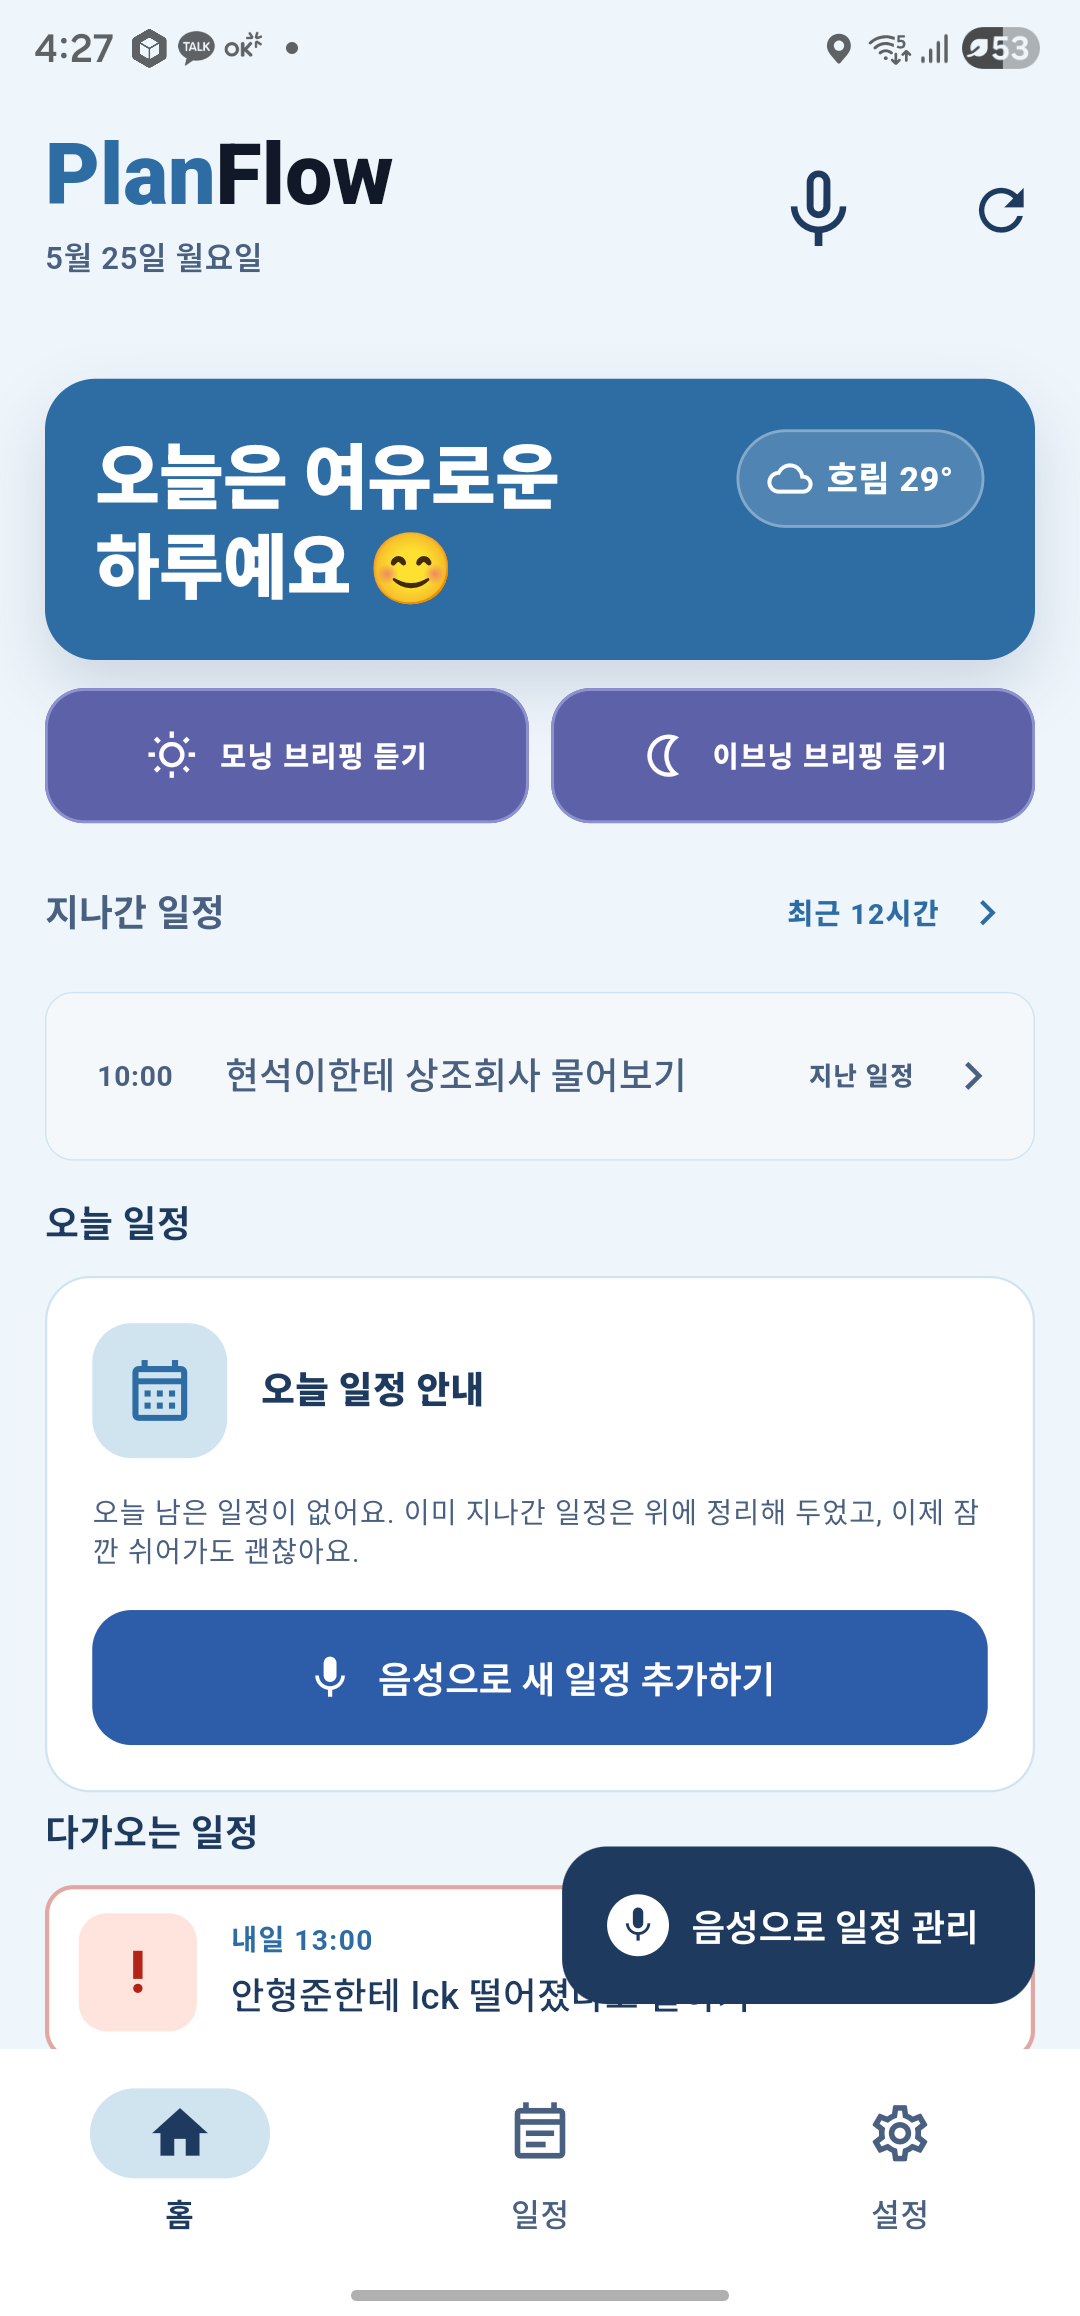
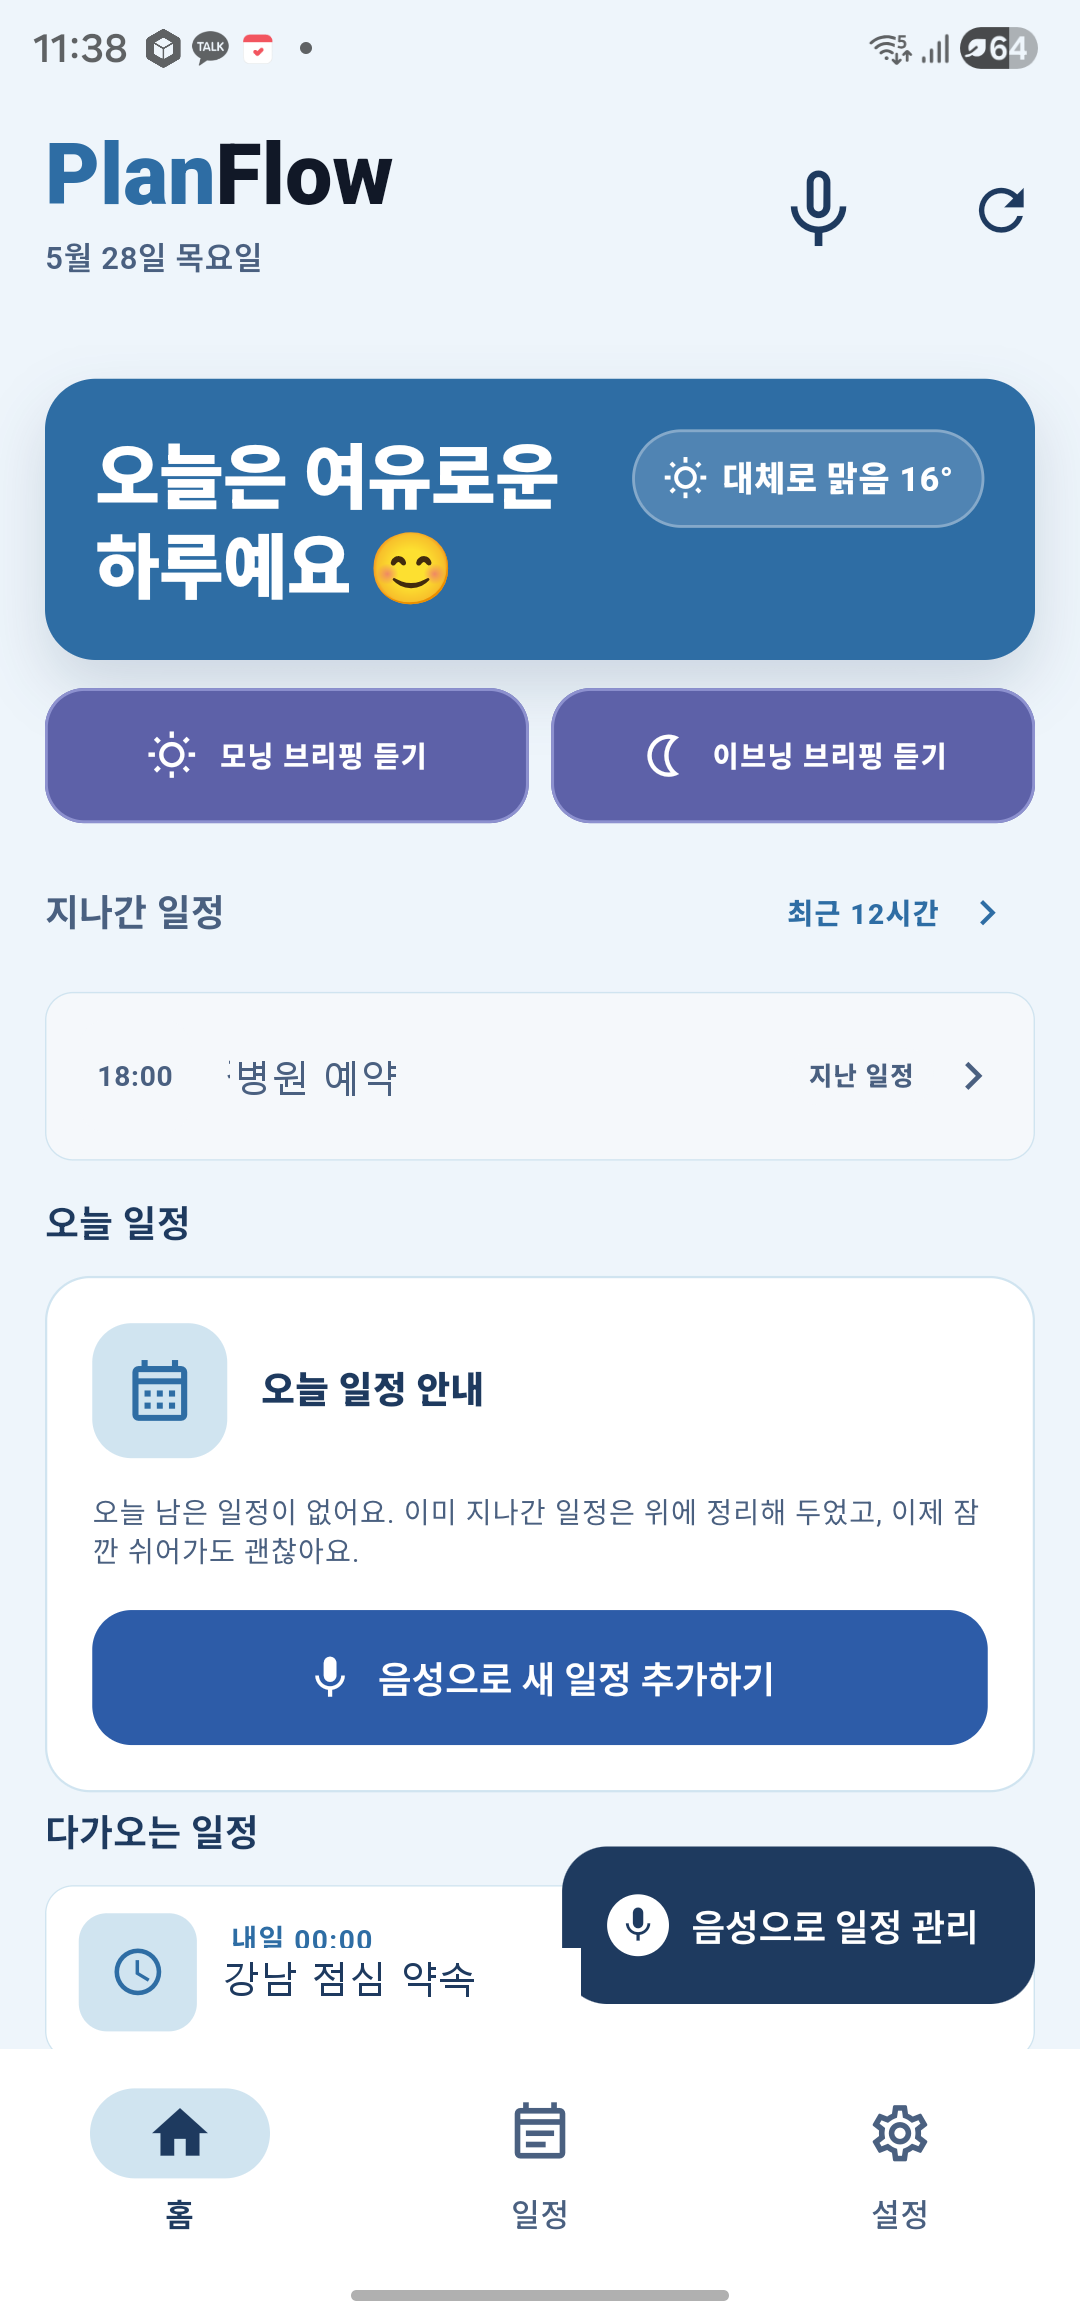
feat: 설정화면 알림 권한 배너, 라우터 세션 복구 로직 개선, 음성 대화 컨트롤러 업데이트
- settings_screen: 알림 권한 꺼짐 감지 후 배너 표시, 설정 앱 이동 유도
- router: session recovering/reauthRequired 상태에서 스플래시 대기 처리
- voice_conversation_controller: 마이너 안정성 개선
- scripts/flutter-local.ps1: 빌드 래퍼 개선
- test: voice 서비스 테스트 보강
- docs: 계정 삭제/프라이버시 정책 업데이트, 스크린샷 최신화
- 앱스토어 제출용 아이콘·스크린샷 추가

diff --git a/lib/screens/settings/settings_screen.dart b/lib/screens/settings/settings_screen.dart
@@ -170,6 +170,7 @@ class _SettingsScreenState extends State<SettingsScreen>
   bool _isLoadingNewFeedbackReportCount = false;
   String? _lastFeedbackAdminEmail;
   final GlobalKey _calendarSyncSectionKey = GlobalKey();
+  NotificationPermissionStatus? _notificationPermissionStatus;
 
   String? get _userId => widget._userId ?? authProvider.userId;
   bool get _isFeedbackAdmin {
@@ -422,12 +423,21 @@ class _SettingsScreenState extends State<SettingsScreen>
     });
   }
 
+  Future<void> _loadNotificationPermissionStatus() async {
+    final status = await _notificationService.checkPermissionStatus();
+    if (!mounted) return;
+    setState(() {
+      _notificationPermissionStatus = status;
+    });
+  }
+
   Future<void> _loadAlarmRuntimeStatus() async {
     if (mounted) {
       setState(() {
         _isLoadingAlarmRuntimeStatus = true;
       });
     }
+    unawaited(_loadNotificationPermissionStatus());
     final briefing = await _briefingSchedulerService.loadRuntimeStatus();
     final departure = await const DepartureAlarmService().loadRuntimeStatus();
     if (!mounted) {
@@ -2284,6 +2294,83 @@ class _SettingsScreenState extends State<SettingsScreen>
     };
   }
 
+  Widget _buildNotificationPermissionBanner() {
+    final status = _notificationPermissionStatus;
+    if (status == null || status.notificationsEnabled != false) {
+      return const SizedBox.shrink();
+    }
+    return Container(
+      margin: const EdgeInsets.only(bottom: 12),
+      padding: const EdgeInsets.symmetric(horizontal: 16, vertical: 14),
+      decoration: BoxDecoration(
+        color: const Color(0xFFFFF3E0),
+        borderRadius: BorderRadius.circular(14),
+        border: Border.all(color: const Color(0xFFFFB74D)),
+      ),
+      child: Row(
+        crossAxisAlignment: CrossAxisAlignment.start,
+        children: [
+          const Icon(Icons.notifications_off_outlined,
+              color: Color(0xFFE65100), size: 22),
+          const SizedBox(width: 12),
+          Expanded(
+            child: Column(
+              crossAxisAlignment: CrossAxisAlignment.start,
+              children: [
+                const Text(
+                  '앱 알림이 꺼져 있어요',
+                  style: TextStyle(
+                    fontWeight: FontWeight.w600,
+                    color: Color(0xFFE65100),
+                    fontSize: 14,
+                  ),
+                ),
+                const SizedBox(height: 4),
+                const Text(
+                  '일정 알람, 출발 알람, 브리핑이 울리지 않습니다.\n기기 설정에서 PlanFlow 알림을 허용해 주세요.',
+                  style: TextStyle(
+                    color: Color(0xFF8D4000),
+                    fontSize: 13,
+                    height: 1.4,
+                  ),
+                ),
+                const SizedBox(height: 10),
+                Row(
+                  children: [
+                    GestureDetector(
+                      onTap: () async {
+                        await _notificationService.openAppNotificationSettings();
+                        if (mounted) {
+                          unawaited(_loadNotificationPermissionStatus());
+                        }
+                      },
+                      child: Container(
+                        padding: const EdgeInsets.symmetric(
+                            horizontal: 14, vertical: 6),
+                        decoration: BoxDecoration(
+                          color: const Color(0xFFE65100),
+                          borderRadius: BorderRadius.circular(8),
+                        ),
+                        child: const Text(
+                          '알림 설정 열기',
+                          style: TextStyle(
+                            color: Colors.white,
+                            fontSize: 13,
+                            fontWeight: FontWeight.w600,
+                          ),
+                        ),
+                      ),
+                    ),
+                  ],
+                ),
+              ],
+            ),
+          ),
+        ],
+      ),
+    );
+  }
+
   Widget _buildSmartAlarmSettings() {
     return _SectionCard(
       title: '스마트 출발 알림 설정',
@@ -2696,6 +2783,7 @@ class _SettingsScreenState extends State<SettingsScreen>
                 ),
               ),
               const SizedBox(height: 16),
+              _buildNotificationPermissionBanner(),
               _buildSmartAlarmSettings(),
               const SizedBox(height: 16),
               KeyedSubtree(

diff --git a/test/services/voice_command_analysis_service_test.dart b/test/services/voice_command_analysis_service_test.dart
@@ -755,5 +755,30 @@ void main() {
       expect(parsed['is_all_day'], isTrue);
       expect(parsed['is_multi_day'], isTrue);
     });
+
+    test('local relative duration creates an all-day multi-day schedule',
+        () async {
+      final service = VoiceCommandAnalysisService(
+        endpoint: Uri.parse(_proxyEndpoint),
+        now: () => DateTime(2026, 6, 7, 12, 0),
+        maxAiRequests: 0,
+      );
+
+      final result = await service.analyze(
+        '오늘부터 2주간 원주집 단기렌트하기',
+        stage: VoiceCommandAnalysisStage.complete,
+      );
+      final parsed = result.toParsedScheduleMap();
+
+      expect(result.method, VoiceCommandAnalysisMethod.local);
+      expect(parsed['title'], '원주집 단기렌트하기');
+      expect(parsed['start_at'], DateTime(2026, 6, 7).toIso8601String());
+      expect(
+        parsed['end_at'],
+        DateTime(2026, 6, 20, 23, 59, 59).toIso8601String(),
+      );
+      expect(parsed['is_all_day'], isTrue);
+      expect(parsed['is_multi_day'], isTrue);
+    });
   });
 }

diff --git a/test/services/voice_conversation_controller_test.dart b/test/services/voice_conversation_controller_test.dart
@@ -234,6 +234,22 @@ void main() {
       ]);
     });
 
+    test('title search requires all name and role tokens to match', () {
+      final controller = VoiceConversationController(
+        events: <EventModel>[
+          _event('exact', '김태형 PM 확인전화', DateTime(2026, 7, 6, 9)),
+          _event('name-only', '김태형 미팅', DateTime(2026, 7, 6, 11)),
+          _event('role-only', 'PM 주간보고', DateTime(2026, 7, 6, 14)),
+        ],
+        now: () => DateTime(2026, 6, 7, 8),
+      );
+
+      final result = controller.handle('김태형 PM 일정 찾아줘');
+
+      expect(result.action, VoiceConversationAction.showEvents);
+      expect(result.visibleEvents.map((event) => event.id), <String>['exact']);
+    });
+
     test('month-end title search clamps the one-month window', () {
       final controller = VoiceConversationController(
         events: <EventModel>[

diff --git a/test/services/voice_command_router_test.dart b/test/services/voice_command_router_test.dart
@@ -96,6 +96,18 @@ void main() {
       expect(deleteRoute.targetQuery, isNot(contains('삭제')));
     });
 
+    test('검색 의도 문장 끝의 조사성 라는/라 는 검색어에서 제거된다', () {
+      const router = VoiceCommandRouter();
+
+      final route = router.route('김창민 만나기라는 일정 찾아봐');
+
+      expect(route.intent, VoiceCommandRouteIntent.query);
+      expect(route.targetQuery, contains('김창민'));
+      expect(route.targetQuery, contains('만나기'));
+      expect(route.targetQuery, isNot(contains('만나기라')));
+      expect(route.targetQuery, isNot(contains('라는')));
+    });
+
     test('장소 추가 수정 검색어는 새 장소보다 기존 일정 식별어를 우선한다', () {
       const router = VoiceCommandRouter();
       final route = router.route(

diff --git a/lib/core/router.dart b/lib/core/router.dart
@@ -42,7 +42,16 @@ final GoRouter appRouter = GoRouter(
       if (!authProvider.hasResolvedInitialSession) {
         return null;
       }
-      return authProvider.isSignedIn ? AppRoutes.home : AppRoutes.login;
+      if (!authProvider.isSignedIn) {
+        // 세션 갱신 중이거나 토큰만 만료된 경우: 스플래시에서 대기
+        if (authProvider.sessionStatus == AuthSessionStatus.recovering ||
+            (authProvider.sessionStatus == AuthSessionStatus.reauthRequired &&
+                authProvider.hasAccountSnapshot)) {
+          return null;
+        }
+        return AppRoutes.login;
+      }
+      return AppRoutes.home;
     }
 
     if (!AppEnv.isSupabaseReady) {

diff --git a/docs/account-deletion.html b/docs/account-deletion.html
@@ -92,7 +92,7 @@
     <h2>1. 계정 삭제 요청 방법</h2>
     <p>
       PlanFlow 계정 삭제를 원하시면 아래 정보를 포함해
-      <a href="mailto:[email redacted]">[email redacted]</a>으로
+      <a href="mailto:[email redacted]">[email redacted]</a>으로
       요청해 주세요.
     </p>
     <ul>
@@ -141,7 +141,7 @@
     <h2>5. 문의</h2>
     <p>
       계정 및 데이터 삭제 관련 문의는
-      <a href="mailto:[email redacted]">[email redacted]</a>으로
+      <a href="mailto:[email redacted]">[email redacted]</a>으로
       보내 주세요.
     </p>
 

diff --git a/docs/privacy-policy.html b/docs/privacy-policy.html
@@ -112,7 +112,7 @@
 
     <h2>문의</h2>
     <p>개인정보 처리, 데이터 삭제 요청, Play Store 문의는 아래 공식 이메일로 문의해 주세요.</p>
-    <p><strong>공식 이메일:</strong> [email redacted]</p>
+    <p><strong>공식 이메일:</strong> [email redacted]</p>
     <p>문의 접수 후 영업일 기준 3일 이내에 답변 드립니다.</p>
 
     <p class="updated">마지막 업데이트: 2026-05-10</p>

diff --git a/lib/services/voice_conversation_controller.dart b/lib/services/voice_conversation_controller.dart
@@ -1004,7 +1004,7 @@ class VoiceConversationController {
       ...event.participants,
       ...event.targets,
     ].map(_compact).join(' ');
-    return queryTokens.any(haystack.contains);
+    return queryTokens.every(haystack.contains);
   }
 
   bool _isDateReferenceToken(String token) {

diff --git a/android/app/src/main/java/io/flutter/plugins/GeneratedPluginRegistrant.java b/android/app/src/main/java/io/flutter/plugins/GeneratedPluginRegistrant.java
@@ -51,11 +51,6 @@ public final class GeneratedPluginRegistrant {
       Log.e(TAG, "Error registering plugin firebase_crashlytics, io.flutter.plugins.firebase.crashlytics.FlutterFirebaseCrashlyticsPlugin", e);
     }
     try {
-      flutterEngine.getPlugins().add(new io.flutter.plugins.firebase.performance.FlutterFirebasePerformancePlugin());
-    } catch (Exception e) {
-      Log.e(TAG, "Error registering plugin firebase_performance, io.flutter.plugins.firebase.performance.FlutterFirebasePerformancePlugin", e);
-    }
-    try {
       flutterEngine.getPlugins().add(new io.flutter.plugins.firebase.firebaseremoteconfig.FirebaseRemoteConfigPlugin());
     } catch (Exception e) {
       Log.e(TAG, "Error registering plugin firebase_remote_config, io.flutter.plugins.firebase.firebaseremoteconfig.FirebaseRemoteConfigPlugin", e);

diff --git a/TASK_20260607_030411_done.md b/TASK_20260607_030411_done.md
@@ -1,0 +1,35 @@
+# Codex 구현 결과
+
+## 변경 내용
+- 주간 리스트 홈 위젯 렌더링을 4개 실제 일정 슬롯 기준으로 맞춰, 4번째 일정이 `+n`으로 밀리지 않게 수정했습니다.
+- AI 일정 대화에서 `이 일정`/`이거` 후속 지시가 현재 조회된 단일 일정에 연결되도록 보강하고, 제목/참석자/대상 이름 검색을 오늘 기준 전후 1개월 범위에서 수행하도록 추가했습니다.
+- 리뷰 후 `김태형 PM 일정 찾아줘`처럼 이름+직책/대상 토큰이 함께 들어온 검색은 모든 토큰이 제목/참석자/대상 필드에 있어야 매칭되도록 보강해, 이름만 맞거나 직책만 맞는 일정이 섞이는 오탐을 줄였습니다.
+- 다중 후보 상태에서는 `이 일정`이 첫 번째 일정을 임의 선택하지 않고 번호 선택을 요구하도록 리뷰 지적을 반영했습니다.
+- `오늘부터 2주간 원주집 단기렌트하기` 같은 상대 기간 표현을 all-day multi-day 일정으로 해석하고 제목에서는 기간 표현을 제거하도록 보강했습니다. 월말 기준 검색/개월 기간 계산은 대상 월 마지막 날로 clamp합니다.
+- 위 동작을 고정하는 서비스 단위 테스트를 추가했습니다.
+
+## 검증
+- 명령: `C:\src\flutter\bin\cache\dart-sdk\bin\dart.exe format ...`
+- 결과: 통과
+- 명령: `C:\src\flutter\bin\cache\dart-sdk\bin\dart.exe analyze lib\services\voice_schedule_structure_service.dart lib\services\voice_conversation_controller.dart test\services\voice_schedule_structure_service_test.dart test\services\voice_command_analysis_service_test.dart test\services\voice_conversation_controller_test.dart test\services\home_widget_service_test.dart`
+- 결과: 통과
+- 명령: `C:\src\flutter\bin\cache\dart-sdk\bin\dart.exe analyze`
+- 결과: 통과
+- 명령: `C:\src\flutter\bin\cache\dart-sdk\bin\dart.exe analyze lib\services\voice_conversation_controller.dart test\services\voice_conversation_controller_test.dart`
+- 결과: 통과. 리뷰 후 이름+직책 검색 오탐 보강 변경 대상으로 재실행했습니다.
+- 명령: `git diff --check -- <변경 파일>`
+- 결과: 통과
+- 명령: `scripts\flutter-local.ps1 test test\services\voice_conversation_controller_test.dart ...`
+- 결과: 미완료. Flutter 실행 전에 FluxOS session registry lock 파일 쓰기 권한 문제로 실패했습니다.
+- 명령: `flutter test ...`
+- 결과: 미완료. 원시 `flutter test test\services\voice_conversation_controller_test.dart --no-pub -r expanded`도 출력 없이 타임아웃됐습니다.
+- 명령: `.\gradlew.bat :app:compileDebugKotlin --no-daemon`
+- 결과: 미완료. Gradle wrapper가 `gradle-8.14-all.zip` 다운로드를 시도했으나 네트워크 권한 차단으로 실패했습니다.
+
+## Codex 리뷰
+- PASS: 별도 리뷰어가 지적한 다중 후보 `이 일정` 임의 선택, 월말 rollover 위험, 이름+직책 OR 검색 오탐 위험을 수정했습니다.
+- 보완: FluxOS preflight/claim은 외부 `.fluxos` lock 파일 쓰기 권한 문제로 완료하지 못했고, 기존 generated/ephemeral dirty 파일은 건드리지 않았습니다.
+
+## 남은 위험
+- Flutter test/build와 Android Kotlin compile은 현재 세션 권한/네트워크/Flutter tool 타임아웃 때문에 실행 완료하지 못했습니다.
+- Android 위젯은 실제 기기에서 작은 위젯 크기별 4개 일정 + overflow 렌더링을 추가 확인해야 합니다.

diff --git a/TASK_20260606_123120_done.md b/TASK_20260606_123120_done.md
@@ -1,0 +1,28 @@
+# Codex 구현 결과
+
+## 변경 내용
+- `lib/screens/shell_screen.dart`의 전면 `GestureDetector(behavior: HitTestBehavior.opaque)`를 제거했습니다.
+- 탭 전환 가로 스와이프는 좌우 24dp edge strip에서만 동작하도록 제한했습니다.
+- `_handleTabSwipe`와 `_goToTab` 로직은 변경하지 않았습니다.
+- `test/screens/shell_swipe_gesture_test.dart`를 추가해 중앙 세로 드래그, 중앙 가로 플링 무시, edge 플링 전환, 첫/마지막 탭 clamp를 검증하도록 했습니다.
+
+## 검증
+- 명령: `C:\src\flutter\bin\cache\dart-sdk\bin\dart.exe analyze lib\screens\shell_screen.dart test\screens\shell_swipe_gesture_test.dart`
+- 결과: PASS, `No issues found!`
+- 명령: `git diff --check -- lib/screens/shell_screen.dart test/screens/shell_swipe_gesture_test.dart`
+- 결과: PASS
+- 명령: `scripts\flutter-local.ps1 test test/screens/shell_swipe_gesture_test.dart --no-pub -r expanded`
+- 결과: BLOCKED, PowerShell execution policy and FluxOS `session_registry.json.lock` permission error
+- 명령: `flutter test test/screens/shell_swipe_gesture_test.dart --no-pub -r expanded`
+- 결과: BLOCKED, raw Flutter command timed out without output
+- 명령: Flutter tool snapshot direct execution
+- 결과: BLOCKED, sandbox cannot write `C:\src\flutter\bin\cache\lockfile`, `libimobiledevice.stamp`, or user AppData telemetry state
+
+## Codex 리뷰
+- 자체 diff 리뷰: PASS. 중앙 본문에는 더 이상 가로 drag recognizer가 없고, edge strip만 `HitTestBehavior.translucent`로 `_handleTabSwipe`를 호출합니다.
+- 별도 리뷰어 검토: LOW 지적 1건. `Stack` 위 overlay `GestureDetector`는 `HitTestBehavior.translucent`여도 뒤 위젯 탭을 완전히 pass-through하지 않습니다. 이번 수정은 24dp edge로 간섭 범위를 제한하지만, edge 안쪽 탭 UI가 있으면 영향이 남을 수 있습니다.
+
+## 남은 위험
+- 좌우 24dp edge 안에 있는 underlying 탭 UI는 overlay gesture strip과 충돌할 수 있습니다. 현재 목표인 중앙 세로 스크롤 충돌 제거와 edge-only 탭 스와이프는 충족하지만, edge 탭 pass-through까지 필요하면 별도 구현 방식 검토가 필요합니다.
+- Flutter widget test, full `flutter analyze`, Android build/run은 현재 sandbox의 Flutter SDK cache/AppData 쓰기 권한 문제로 실행하지 못했습니다.
+- FluxOS `session start`, `claim`, 래퍼 기반 test도 `.fluxos` lock 파일 권한 문제로 실패했습니다.

diff --git a/TASK_20260608_141130_done.md b/TASK_20260608_141130_done.md
@@ -1,0 +1,25 @@
+# Codex 구현 결과
+
+## 변경 내용
+- 앱 foreground 상태를 `PlanFlowApp` lifecycle에서 기록하도록 추가했습니다.
+- 브리핑 실행 알림과 예약 브리핑 시작 알림이 앱 foreground 상태에서는 발송되지 않도록 `BriefingSchedulerService`에 suppress 경로를 추가했습니다.
+- foreground 브리핑 실행/시작 알림 억제 회귀 테스트를 추가했습니다.
+
+## 검증
+- 명령: `C:\src\flutter\bin\cache\dart-sdk\bin\dart.exe format lib/services/briefing_scheduler_service.dart lib/app.dart test/services/briefing_scheduler_service_test.dart`
+- 결과: 통과
+- 명령: `C:\src\flutter\bin\cache\dart-sdk\bin\dart.exe analyze lib/services/briefing_scheduler_service.dart lib/app.dart test/services/briefing_scheduler_service_test.dart`
+- 결과: 통과
+- 명령: `git diff --check -- lib/services/briefing_scheduler_service.dart lib/app.dart test/services/briefing_scheduler_service_test.dart`
+- 결과: 통과
+- 명령: `powershell.exe -NoLogo -NoProfile -ExecutionPolicy Bypass -File .\scripts\flutter-local.ps1 test test/services/briefing_scheduler_service_test.dart --no-pub`
+- 결과: FluxOS session registry lock 권한 문제로 실행 전 실패
+- 명령: `C:\src\flutter\bin\flutter.bat test test/services/briefing_scheduler_service_test.dart --no-pub -r expanded`
+- 결과: 출력 없이 타임아웃
+
+## Codex 리뷰
+- PASS: 변경 범위는 브리핑 알림 억제와 lifecycle 기록, 해당 회귀 테스트로 제한했습니다.
+
+## 남은 위험
+- Flutter test runner가 이 환경에서 출력 없이 타임아웃되어 신규 테스트의 런타임 통과를 확인하지 못했습니다.
+- FluxOS queue/lock 파일은 현재 세션 권한으로 쓸 수 없어 closed-loop 상태 파일 갱신은 repo 내부 done 파일로 대체했습니다.